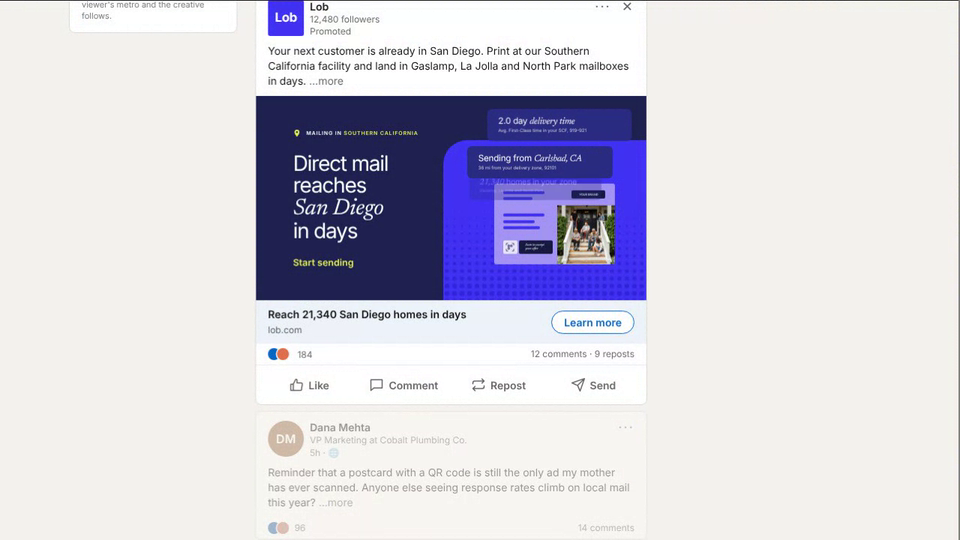
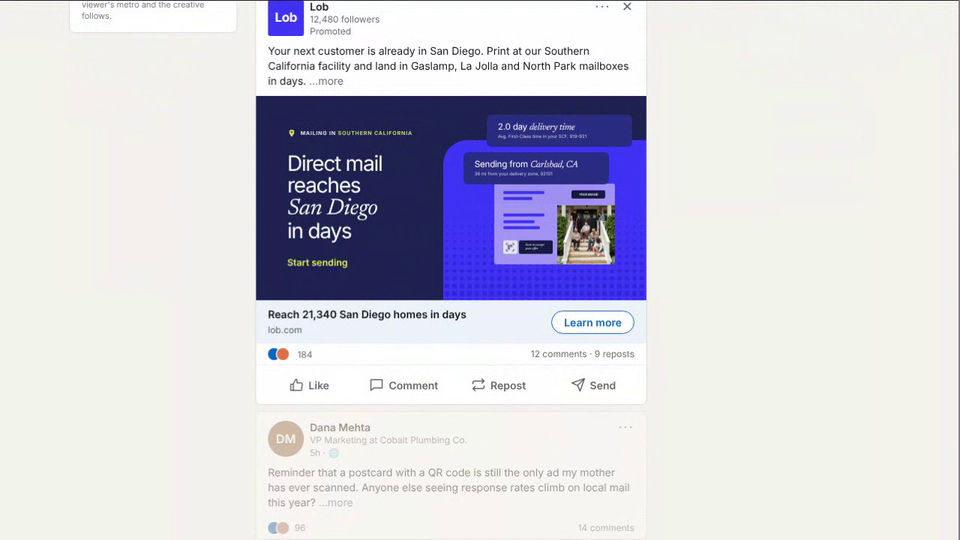
Paid Ad Pipeline: ad text a touch left
Claude-Session: https://claude.ai/code/session_01AHeBe16MbJ3hGUT21NJCss

Changed region(s): [[0.4688, 0.1778, 0.6562, 0.3852], [0.2812, 0.237, 0.4375, 0.4444], [0.2812, 0.4741, 0.375, 0.5037]]

diff --git a/paid-ad-pipeline/index.html b/paid-ad-pipeline/index.html
@@ -68,7 +68,7 @@ nav.back span{color:#6e6e6e}nav.back b{font-weight:500;color:#fff;overflow:hidde
 .ad .cr .sw,.ad .tx .sw{transition:opacity .3s,transform .3s,filter .3s;display:inline-block}
 .ad .out{opacity:0!important;filter:blur(4px)}
 .ad .cr{background:var(--ink)}
-.cr .l{position:absolute;left:9.5cqw;top:0;bottom:0;width:38cqw;display:flex;flex-direction:column;justify-content:center}
+.cr .l{position:absolute;left:8cqw;top:0;bottom:0;width:39cqw;display:flex;flex-direction:column;justify-content:center}
 .cr .chip{display:inline-flex;align-items:center;gap:1.2cqw;white-space:nowrap;font:600 1.35cqw var(--sans);letter-spacing:.12em;text-transform:uppercase}
 .cr .chip svg{width:2.2cqw;height:2.2cqw;fill:var(--lime)}.cr .chip em{font-style:normal;color:var(--lime)}
 .cr h4{font:400 5.4cqw/1.04 var(--sans);letter-spacing:-.045em;margin:4cqw 0 3.6cqw;white-space:nowrap}
